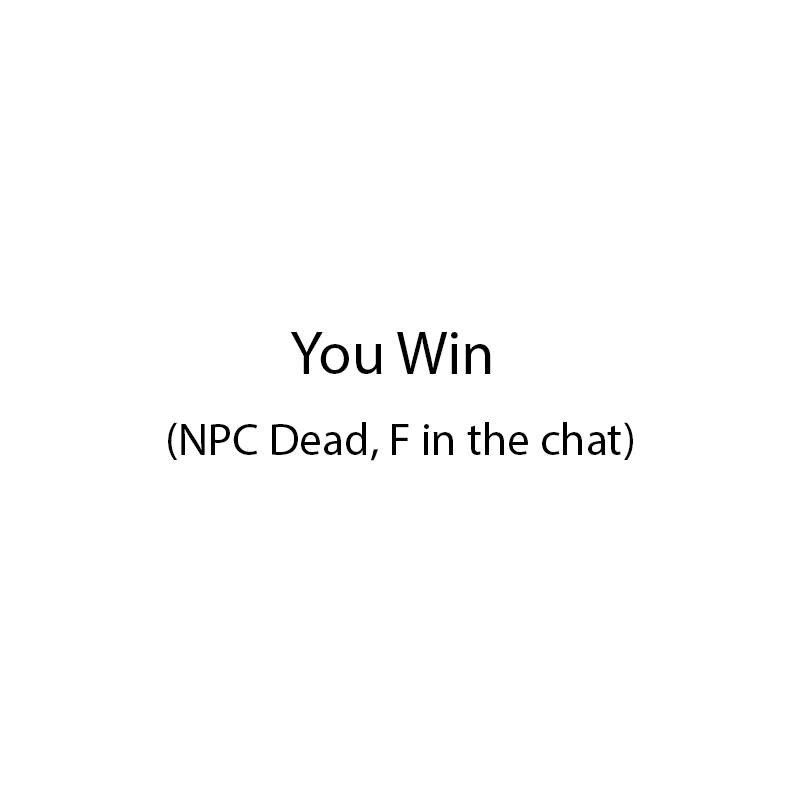
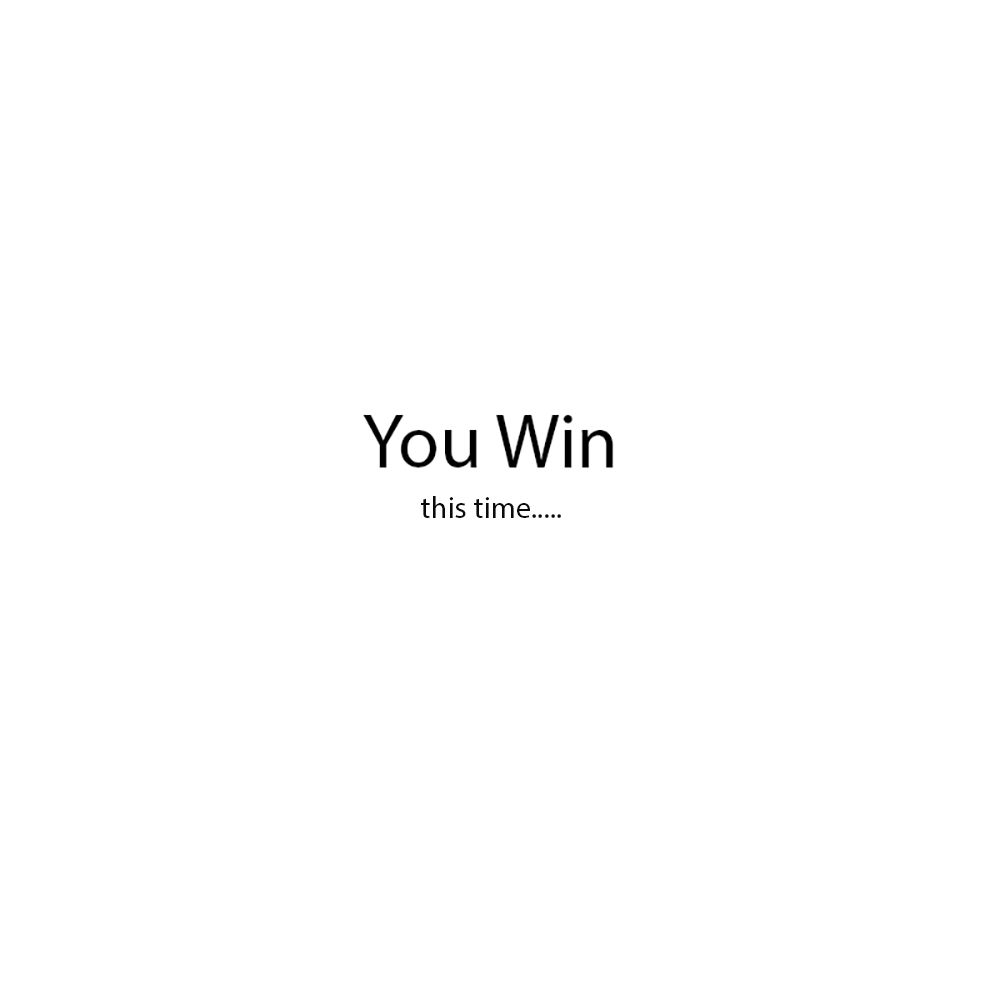
added base gameplay code

Changed region(s): [[0.1875, 0.5, 0.8125, 0.5938], [0.5, 0.4062, 0.625, 0.4688], [0.375, 0.4375, 0.4375, 0.4688]]

diff --git a/js/script.js b/js/script.js
@@ -9,6 +9,11 @@ var FirstName = params.get("fname");
 var SecondName = params.get("lname");
 var weaponOfChoice = params.get("TYPE");
 
+var playerhealth = 100;
+var enemyHealth = 100;
+
+var gameover = false;
+
 function WelcomeText() 
 {
 	document.getElementById("WelcomeName").innerHTML = "Welcome : " + FirstName + " " + SecondName;
@@ -19,6 +24,16 @@ function WelcomeText()
 var canvas = document.getElementById("game");
 // get 2D context for this canvas
 var context = canvas.getContext("2d");
+context.font = "25px Comic Sans MS";
+
+
+var playerChar = new Image();
+var EnemyChar = new Image();
+var BGImage = new Image();
+
+playerChar.src = "./Img/stickman.png";
+EnemyChar.src = "./Img/Enemy stickman.png";
+BGImage.src = "./Img/WinScreen.png";
 
 //diffrent button on mouse up event listiners
 document.getElementById("FirstAttackButton").onmouseup = function() {ButtonUp()};
@@ -40,14 +55,31 @@ document.getElementById("HealButton").addEventListener("touchend", ButtonUp, {pa
 
 var mySound = document.getElementById("sound");   
 
-function FirstAttackButton(){
+function FirstAttackButton()
+{
+	if(enemyHealth > 0)
+	{
+		enemyHealth = enemyHealth - 10;
+		playerhealth = playerhealth - 5;
+	}
 }
 
-function SecondAttackButton(){
+function SecondAttackButton()
+{
+	if(enemyHealth > 0)
+	{
+		enemyHealth = enemyHealth - 20;
+		playerhealth = playerhealth - 10;
+	}
 }
 
 function ThirdAttackButton()
 {
+	if(enemyHealth > 0)
+	{
+		enemyHealth = enemyHealth - 30;
+		playerhealth = playerhealth - 15;
+	}
 }
 
 function DownbuttonOnClick(){
@@ -58,15 +90,65 @@ function ButtonUp(){
 
 function update()
 {
-	
+	if(enemyHealth < 1)
+	{
+		gameover = true;
+	}
+}
+
+function drawPlayerHealthbar()
+{
+  var width = 300;
+  var height = 50;
+  var max = 100;
+  var val = playerhealth;
+
+  // Draw the fill
+  context.fillStyle = "#00FF00";
+  var fillVal = Math.min(Math.max(val / max, 0), 1);
+  context.fillRect(550,625, fillVal * width, height);
+}
+
+function drawEnemyHealthbar()
+{
+  var width = 300;
+  var height = 50;
+  var max = 100;
+  var val = enemyHealth;
+
+  // Draw the fill
+  context.fillStyle = "#FF0000";
+  var fillVal = Math.min(Math.max(val / max, 0), 1);
+  context.fillRect(25,25, fillVal * width, height);
+
 }
 
 // Draw GameObjects to Console
 // Modify to Draw to Screen
 function draw()
 {
-    
+	context.clearRect(0, 0, canvas.width, canvas.height);
+
+	if(gameover === false)
+	{
+		context.drawImage(playerChar,500,300);
+		
+		context.drawImage(EnemyChar,0,25);
+		
+		context.fillStyle = "red";
+		context.fillText("Enemy Health:", 25, 100);
+		context.fillStyle = "green";
+		context.fillText("Player Health:", 550, 600);
+		
+		drawPlayerHealthbar();
+		drawEnemyHealthbar();
+	}
+	else
+	{
+		context.drawImage(BGImage,0,0);
+	}
 }
+
 //gameplay loop
 function gameloop()
 {
@@ -88,6 +170,10 @@ function playButtonClick()
 	{
 		mySound.currentTime = 0;
 	}
+}
+
+function HealButton(){
+	
 }
 
 // Handle Active Browser Tag Animation
